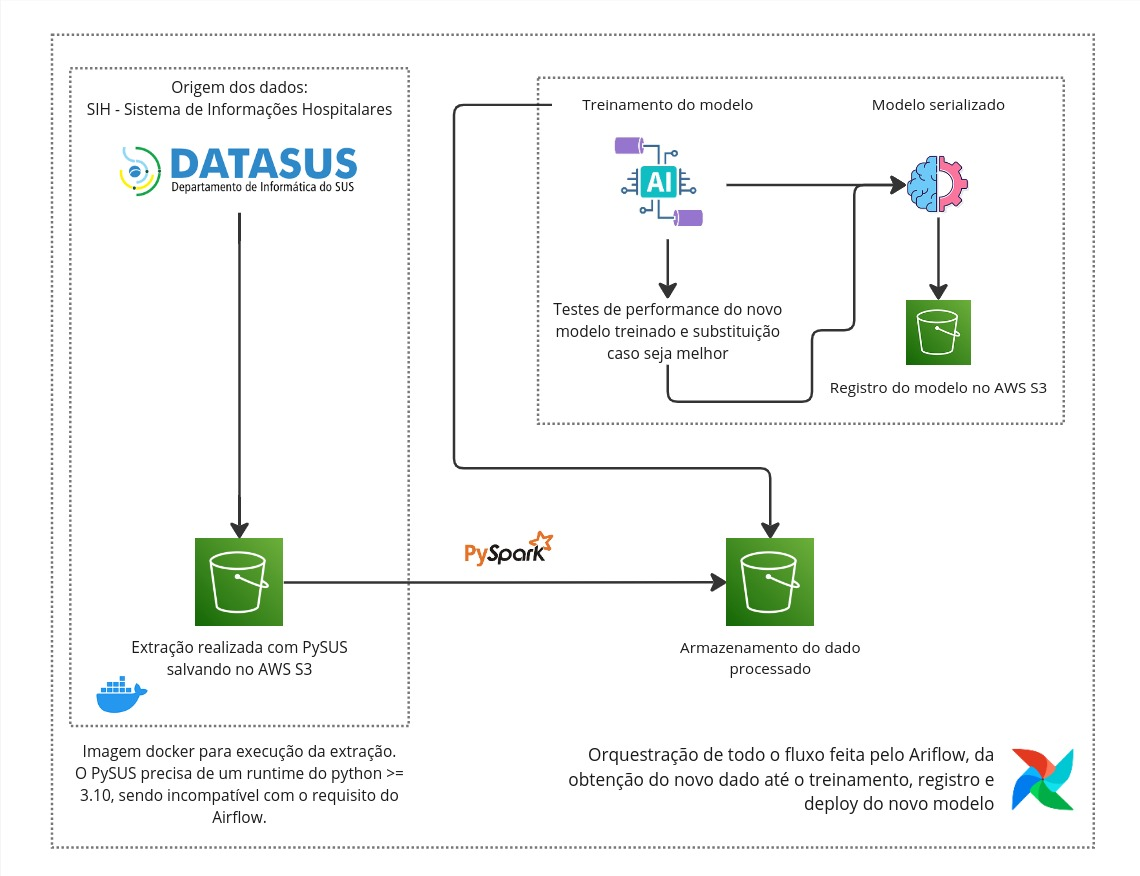
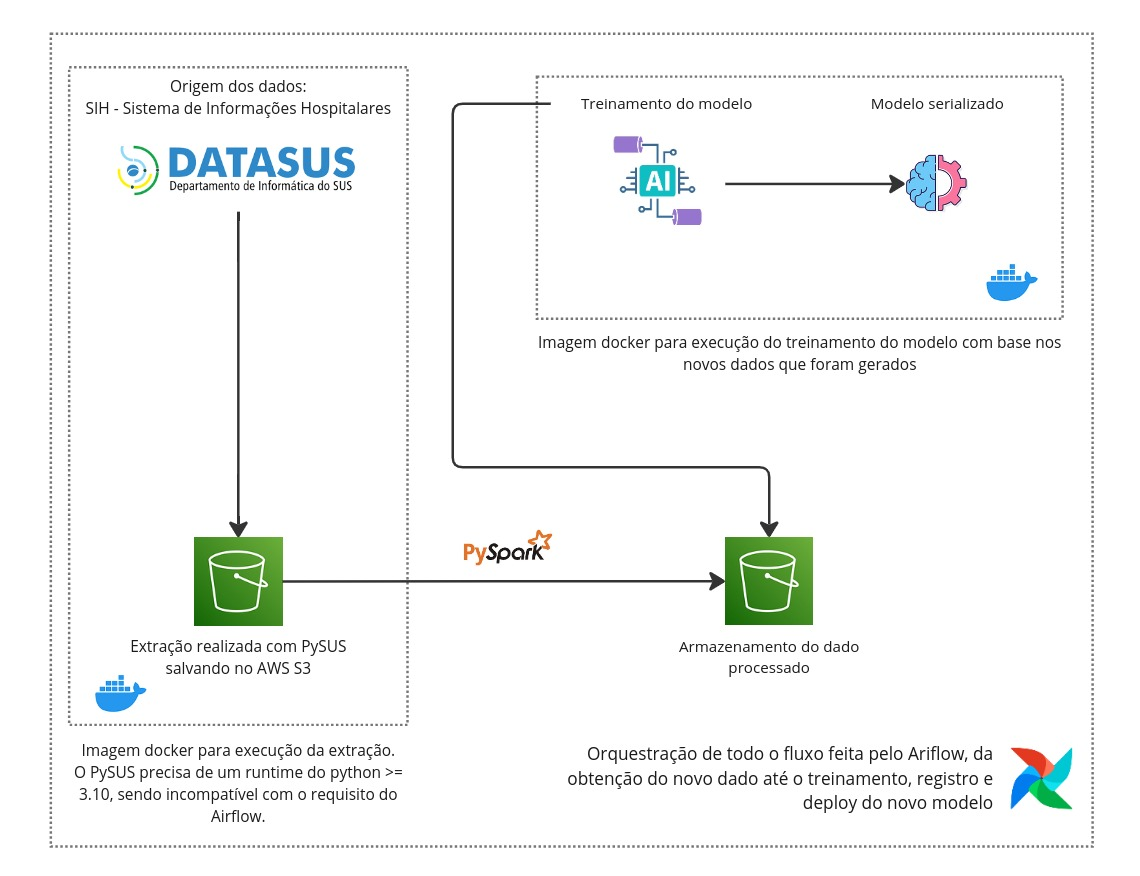
Create airflow and ML orchestration (#2)
* add docs for airflow

* add ml pipeline

* parametriza os estados

* add Dockerfile for ml pipeline

* create altocusto dag

* update docs

* update docs

diff --git a/src/ml/train_evaluate.py b/src/ml/train_evaluate.py
@@ -1,0 +1,104 @@
+import awswrangler as wr
+import numpy as np
+import pandas as pd
+
+from sklearn.preprocessing import MinMaxScaler, OneHotEncoder
+from sklearn.model_selection import train_test_split
+from imblearn.under_sampling import RandomUnderSampler
+from sklearn.metrics import roc_auc_score, accuracy_score, precision_score, recall_score, f1_score
+
+import config
+
+
+def load_data(s3_transform_path):
+    df = wr.s3.read_parquet(s3_transform_path)
+    df['US_TOT'] = df['US_TOT'].astype('float')
+    p95 = np.percentile(df['US_TOT'], 95)
+    df.loc[(df['US_TOT']>=p95), 'ALTO_CUSTO'] = 1
+    df.loc[(df['US_TOT']<p95), 'ALTO_CUSTO'] = 0
+    x = df[list(config.features.keys())]
+    y = df['ALTO_CUSTO']
+    return x, y
+
+def norm_data(data):
+    scaler = MinMaxScaler()
+    data_norm = scaler.fit_transform(data)
+    colunas = data.columns
+    df = pd.DataFrame(data_norm, columns=colunas)
+    return df
+
+def make_ohe(data):
+    ohe = OneHotEncoder(dtype=int)
+    data_ohe = ohe.fit_transform(data).toarray()
+    df = pd.DataFrame(data_ohe, columns=ohe.get_feature_names_out(data.columns))
+    return df
+
+def transform_features(x):
+    dict_features = config.features
+    df_transform_num = pd.DataFrame()
+    df_transform_str = pd.DataFrame()
+    for col in x.columns:
+        dtype = dict_features[col]
+        x[col] = x[col].astype(dtype)
+        if dtype in ('float', 'int'):
+            num = norm_data(x[[col]])
+            df_transform_num = pd.concat([df_transform_num, num], axis=1)
+        elif dtype in ('str'):
+            dummy = make_ohe(x[[col]])
+            df_transform_str = pd.concat([df_transform_str, dummy], axis=1)    
+    df = pd.concat([df_transform_num, df_transform_str], axis=1)
+    return df
+
+def split_data(x, y, test_size):
+    print(f">>> Spliting data on {test_size*100}% for test")
+    try:
+        X_train, X_test, y_train, y_test = train_test_split(x, y, 
+                                                            random_state=config.SEED, 
+                                                            test_size=test_size)
+        print(f"SUCESS: Slipt Data")
+    except ValueError as e:
+        print(f"ERROR: Slipt Data - {e}")
+    return X_train, X_test, y_train, y_test 
+
+def balance_target(X_train, y_train):
+    rus = RandomUnderSampler(random_state = config.SEED)
+    x_rus, y_rus = rus.fit_resample(X_train, y_train)
+    return x_rus, y_rus
+
+def train_model(model, X_train, y_train):
+    modelo_treinado = model.fit(X_train, y_train)
+    print(f"Modelo {modelo_treinado} treinado")
+    return modelo_treinado
+
+def score(model_fit, threshold, X_test):
+    prob_predict = model_fit.predict_proba(X_test)[:,1]
+    predcit = np.where(prob_predict >= threshold, 1, 0)
+    return prob_predict, predcit
+
+def evaluate(prob_predict, predictions, y_test):
+    roc_auc = roc_auc_score(y_test, prob_predict)
+    acc_value = accuracy_score(y_test, predictions)
+    precision_value = precision_score(y_test, predictions, average='weighted')
+    recall_value = recall_score(y_test, predictions, average='weighted')
+    f1_value = f1_score(y_test, predictions, average='weighted')
+    results = {
+        'accuracy':  round(acc_value, 4),
+        'precision': round(precision_value, 4),
+        'recall':    round(recall_value, 4),
+        'f1':        round(f1_value, 4),
+        'roc_auc':   round(roc_auc, 4)       
+    }
+    return results
+
+if __name__ == '__main__':
+    x, y = load_data(config.transform_s3_path)
+    x = transform_features(x)
+    
+    X_train, X_test, y_train, y_test = split_data(x, y, config.test_size)
+    x_rus, y_rus = balance_target(X_train, y_train)
+    
+    model_fit = train_model(config.model, x_rus, y_rus)
+    prob_predict, predcit = score(model_fit, config.threshold, X_test)
+    results = evaluate(prob_predict, predcit, y_test)
+    print(results)
+

diff --git a/airflow_pipeline/dags/altocusto.py b/airflow_pipeline/dags/altocusto.py
@@ -1,0 +1,46 @@
+import sys
+sys.path.append("airflow_pipeline")
+
+from airflow.models import DAG
+from airflow.providers.docker.operators.docker import DockerOperator
+from airflow.providers.apache.spark.operators.spark_submit import SparkSubmitOperator
+from airflow.utils.dates import days_ago
+
+estados = []
+
+with DAG(dag_id = "AltoCustDAG", 
+         start_date=days_ago(0), 
+         schedule_interval='0 11 10 * *') as dag:
+
+    datasus_collector = DockerOperator(
+        task_id="sih_collect",
+        docker_url="tcp://docker-proxy:2375",
+        api_version="auto",
+        auto_remove=True,
+        image="pysus-coletor",
+        container_name="datasus_collect",
+        command=[
+            "--ano", str('{{ execution_date.year }}'),
+            "--mes", int('{{ execution_date.month }}')
+            ]
+        )
+
+    datasus_transform = SparkSubmitOperator(
+        task_id="altocusto_transformation",
+        application="/home/gustavo-cunha/Documentos/GitHub/preditor-sus-alto-custo/src/pipe/transform.py",
+        application_args=[
+            "--ano", str('{{ execution_date.year }}'),
+            "--mes", int('{{ execution_date.month }}')
+            ]
+        )
+    
+    datasus_model = DockerOperator(
+        task_id="alto_custo_model",
+        docker_url="tcp://docker-proxy:2375",
+        api_version="auto",
+        auto_remove=True,
+        image="altocusto-ml-classifier",
+        container_name="datasus_model"
+        )
+
+datasus_collector >> datasus_transform >> datasus_model

diff --git a/src/pipe/transform.py b/src/pipe/transform.py
@@ -53,10 +53,17 @@ if __name__ == '__main__':
         .getOrCreate()
     
     parser = argparse.ArgumentParser(description="Spark DataSUS Transformation")
-    parser.add_argument("--estado", required=True)
     parser.add_argument("--ano", required=True)
     parser.add_argument("--mes", required=True)
-
     args = parser.parse_args()
+    
+    siglas_estados_brasil = [
+      'ac', 'ap', 'am', 'pa', 'ro', 'rr', 'to',  # Norte
+      'al', 'ba', 'ce', 'ma', 'pb', 'pe', 'pi', 'rn', 'se',  # Nordeste
+      'df', 'go', 'mt', 'ms',  # Centro-Oeste
+      'es', 'mg', 'rj', 'sp',  # Sudeste
+      'pr', 'rs', 'sc'  # Sul
+      ]
 
-    transform_dataframe_alto_custo(spark, args.estado, args.ano, args.mes)
+    for estado in siglas_estados_brasil:
+        transform_dataframe_alto_custo(spark, estado, args.ano, args.mes)

diff --git a/src/pipe/collect.py b/src/pipe/collect.py
@@ -31,10 +31,17 @@ def extracao_dados_sih(estado: str, ano: str, mes: int):
 if __name__ == '__main__':
     
     parser = argparse.ArgumentParser(description="DataSUS SIH Collect")
-    parser.add_argument("--estado", required=True)
     parser.add_argument("--ano", required=True)
     parser.add_argument("--mes", required=True)
-
     args = parser.parse_args()
-
-    extracao_dados_sih(args.estado, args.ano, args.mes)
+    
+    siglas_estados_brasil = [
+      'ac', 'ap', 'am', 'pa', 'ro', 'rr', 'to',  # Norte
+      'al', 'ba', 'ce', 'ma', 'pb', 'pe', 'pi', 'rn', 'se',  # Nordeste
+      'df', 'go', 'mt', 'ms',  # Centro-Oeste
+      'es', 'mg', 'rj', 'sp',  # Sudeste
+      'pr', 'rs', 'sc'  # Sul
+      ]
+    
+    for estado in siglas_estados_brasil:
+      extracao_dados_sih(estado, args.ano, args.mes)

diff --git a/src/ml/config.py b/src/ml/config.py
@@ -1,0 +1,17 @@
+from sklearn.ensemble import AdaBoostClassifier
+
+transform_s3_path = "s3://datalake-data-sus/transform/"
+features = {
+    "SEXO": "str",
+    "RACA_COR": "str",
+    "INSTRU": "str",
+    "IDADE": "int",
+    "DIAS_PERM": "float",
+    "DIAG_CLASS": "str"
+}
+
+
+SEED = 1337
+test_size = 0.3
+model = AdaBoostClassifier(random_state=SEED, algorithm='SAMME')
+threshold = 0.5

diff --git a/README.md b/README.md
@@ -2,6 +2,10 @@
 
 Projeto que coleta dados do SIH (Sistema de informações hospitalares) para classificar quais pacientes são de "Alto custo".
 
+Esse projeto foi utilizado como tese de conclusão de curso para o MBA em Data Science and Analytics da USP/Esalq.
+
+> [Notebook](docs/preditor_altoCusto.ipynb) que foi produtizado.
+
 ### O que é Alto Custo?
 
 São pacientes que, por conta da sua alta complexidade do estádo de saúde associada a condições crônicas e tratamento complexos, utilizam grande parte dos recursos financeiros de um serviço de saúde. A problemática não fica na questão financeira, mas sim no que esse valor representa como reflexo da qualidade de vída daquele paciente.
@@ -30,4 +34,28 @@ Portanto, prever a probabilidade de um indivíduo se tornar um paciente de alto 
 2. Pipeline de Machine Learning:
      - O modelo é treinado com a chegada de novos dados.
      - O seu registro é feito no S3, salvando tanto o modelo serializado quanto metadados.
-     - Todo novo dado dispara o ciclo de MLOps fazendo a inferência das métricas do modelo para os novos dados. Caso o modelo não esteja nos limites estabelecidos pelos testes, um novo modelo é treinado e substituido.
+     - Todo novo dado dispara o ciclo de MLOps fazendo a inferência das métricas do modelo para os novos dados.
+
+### Orquestração
+
+Todo o projeto é orquestrado pelo Airflow. No caso do projeto, ele foi instalado localmente utilizando o runtime do python em 3.9.
+
+> É recomendado criar um venv isolado para projeto.
+
+No ambiente virtual já ativado:
+
+```bash
+pip install 'apache-airflow==2.3.2' --constraint "https://raw.githubusercontent.com/apache/airflow/constraints-2.3.2/constraints-3.9.txt"
+```
+```bash
+pip install -r requirements.airflow.txt # Para outros modulos e pacotes
+```
+
+Para execução:
+```bash
+export AIRFLOW_HOME=$(pwd)/airflow_pipeline
+```
+
+```bash
+airflow standalone
+```
